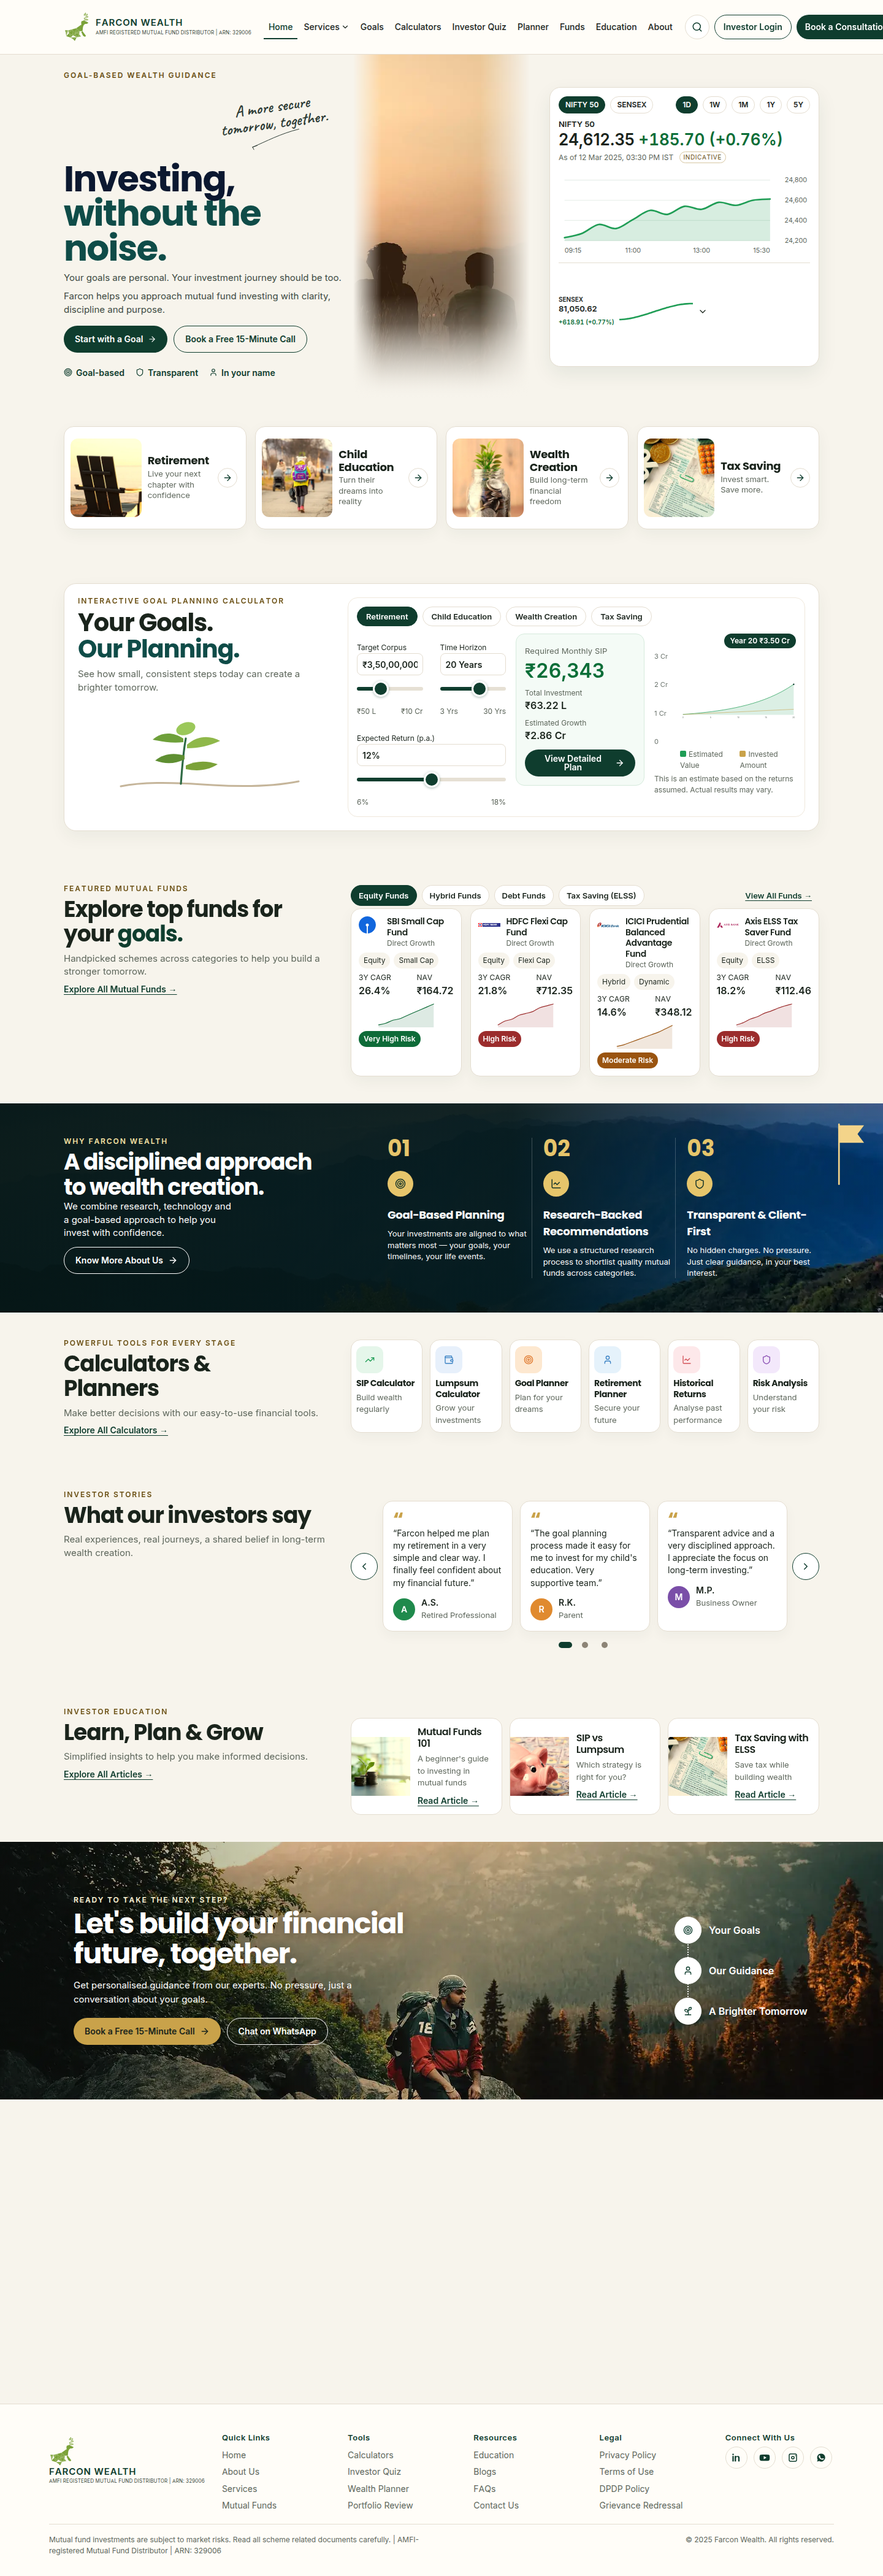
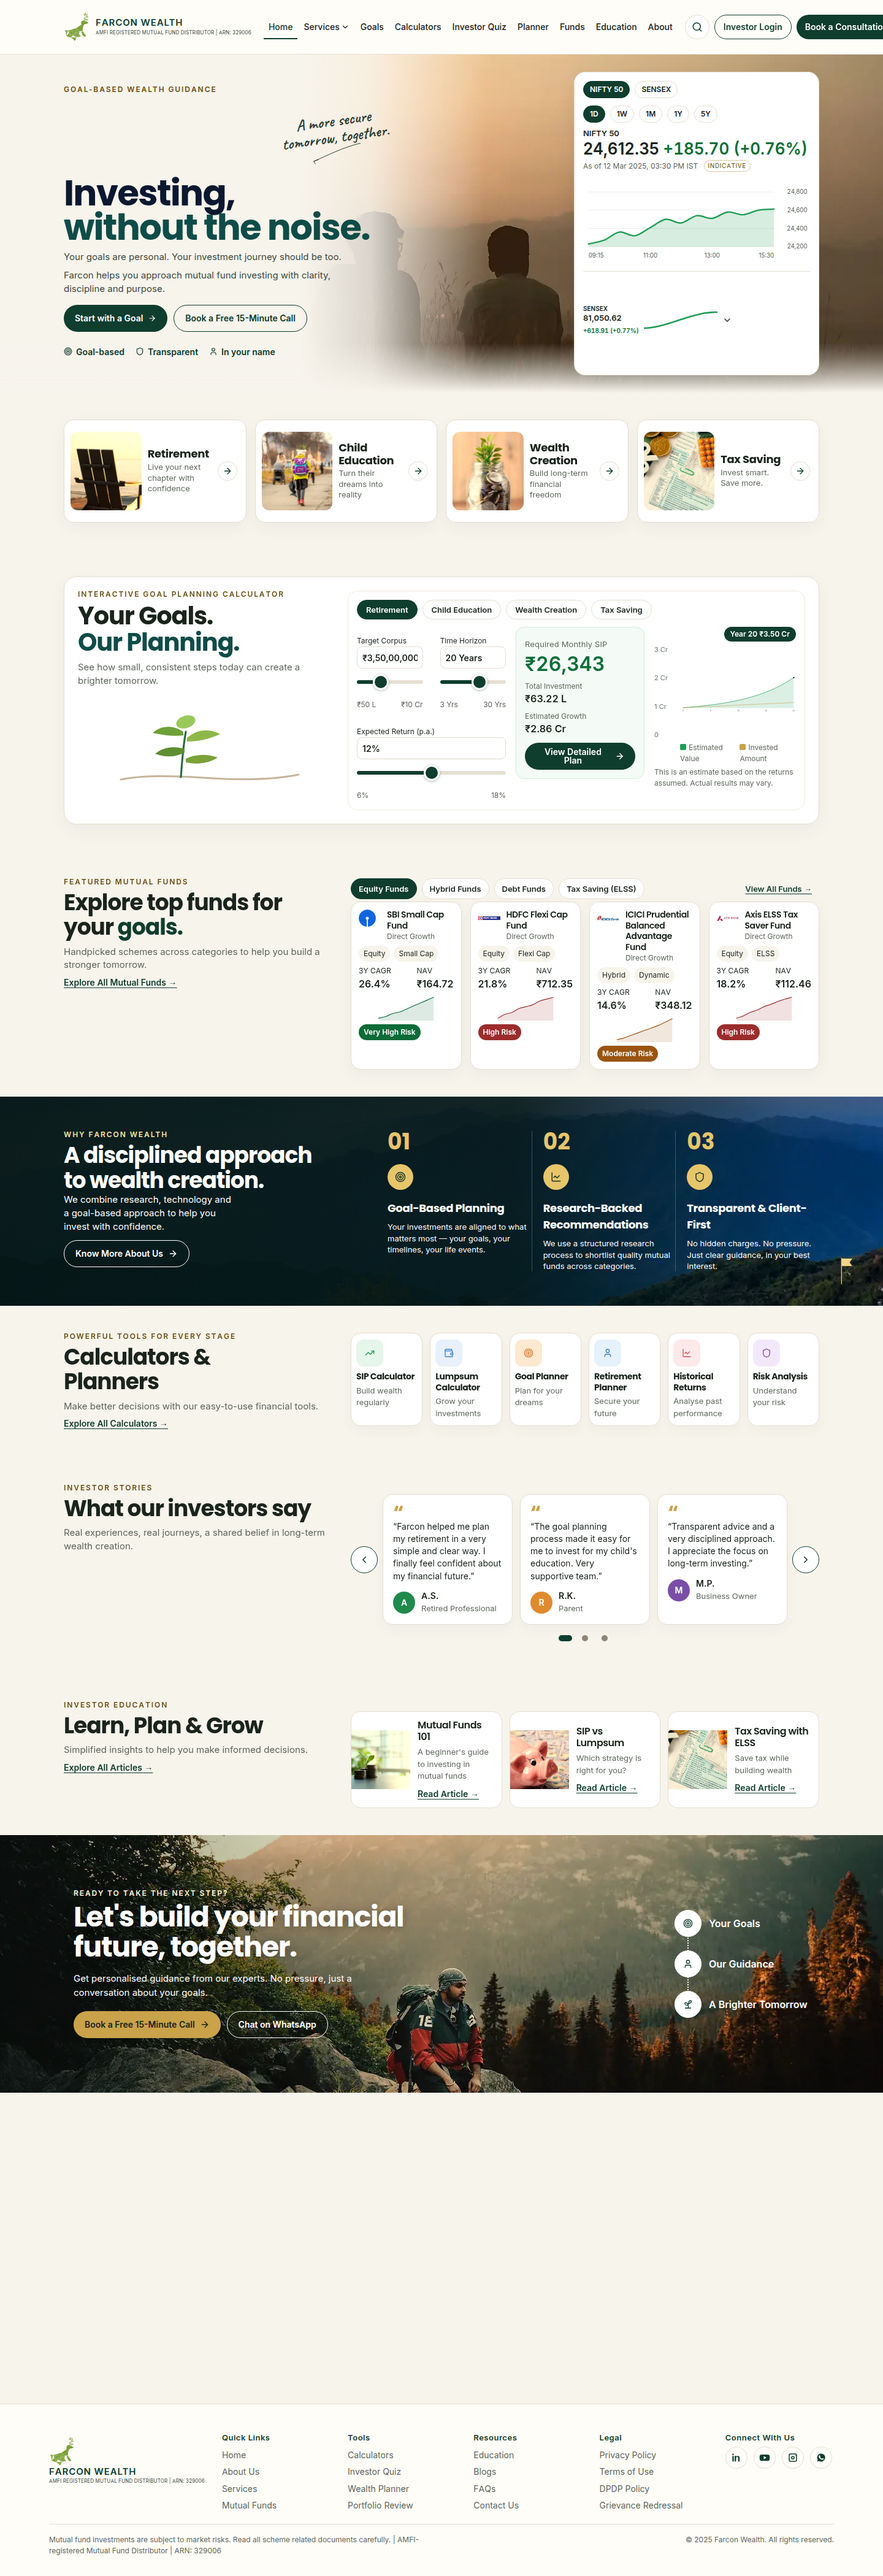
Restore a full-bleed desktop hero and seat the Why flag on the ridge.
From 1100px up the sunset photo covers the hero again, with the couple in the gap beside a 400px market card and the heading held to two lines. The gold flag is 28px and sits on the right-hand ridge. Layout under 1100px is unchanged.

diff --git a/src/farcon.css b/src/farcon.css
@@ -1130,26 +1130,17 @@ html { scroll-behavior: smooth; }
 @media (min-width: 1100px) {
   .hf-hero-photo, .is-home .hf-hero-photo {
     position: absolute;
-    left: 40%;
-    right: auto;
-    top: 0;
-    bottom: 0;
+    inset: 0;
     z-index: 0;
-    width: 20%;
+    width: 100%;
     height: 100%;
     margin: 0;
     border-radius: 0;
     object-fit: cover;
-    object-position: 52% 58%;
+    object-position: 55% 72%;
     transform: none;
-    -webkit-mask-image:
-      linear-gradient(90deg, transparent 0%, #000 12%, #000 88%, transparent 100%),
-      linear-gradient(180deg, #000 0%, #000 72%, transparent 100%);
-    -webkit-mask-composite: source-in;
-    mask-image:
-      linear-gradient(90deg, transparent 0%, #000 12%, #000 88%, transparent 100%),
-      linear-gradient(180deg, #000 0%, #000 72%, transparent 100%);
-    mask-composite: intersect;
+    -webkit-mask-image: none;
+    mask-image: none;
   }
   .hf-hero-scrim, .is-home .hf-hero-scrim {
     display: block;
@@ -1157,10 +1148,18 @@ html { scroll-behavior: smooth; }
     inset: 0;
     z-index: 1;
     pointer-events: none;
-    background: linear-gradient(180deg, transparent 0%, transparent 78%, rgba(247, 244, 236, 0.55) 92%, #F7F4EC 100%);
+    background:
+      linear-gradient(180deg, transparent 0%, transparent calc(100% - 80px), #F7F4EC 100%),
+      linear-gradient(90deg, #F7F4EC 0%, #F7F4EC 34%, rgba(247, 244, 236, 0.85) 42%, rgba(247, 244, 236, 0) 55%);
   }
-  .hf-hero-inner, .is-home .hf-hero-inner { position: relative; z-index: 2; }
-  .hf-hero-copy, .is-home .hf-hero-copy { max-width: 460px; }
+  .hf-hero-inner, .is-home .hf-hero-inner {
+    position: relative;
+    z-index: 2;
+    grid-template-columns: minmax(0, 1fr) min(400px, 30vw);
+  }
+  .hf-hero-copy, .is-home .hf-hero-copy { max-width: 560px; }
+  .hf-hero h1 em, .is-home .hf-hero h1 em { white-space: nowrap; }
+  .hf-market, .is-home .hf-market { width: min(400px, 30vw); max-width: 400px; justify-self: end; }
 }
 @media (max-width: 1099px) {
   .hf-hero, .is-home .hf-hero { display: flex; flex-direction: column; background: #F7F4EC; min-height: 0; }
@@ -1196,10 +1195,11 @@ html { scroll-behavior: smooth; }
   }
   .hf-flag, .is-home .hf-flag {
     display: block;
-    width: 64px;
-    height: 108px;
-    top: 28px;
-    right: 22px;
+    width: 28px;
+    height: 46px;
+    top: auto;
+    right: 46px;
+    bottom: 10%;
   }
 }
 .hf-indicative {
